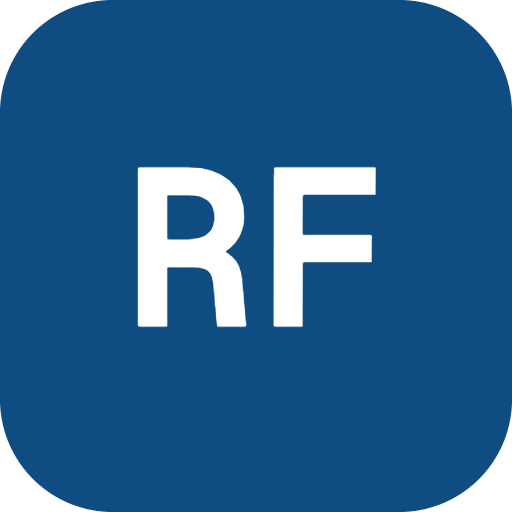
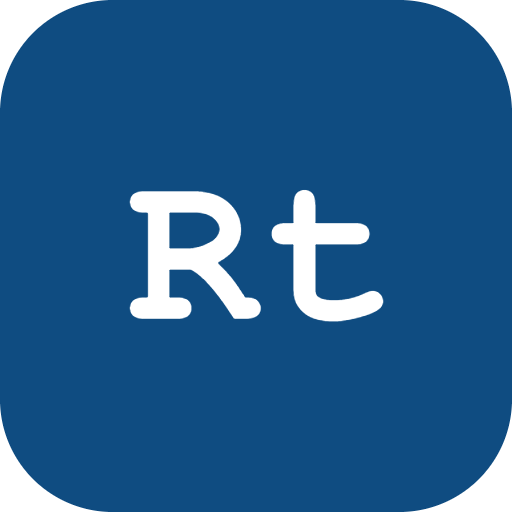
Rebrand app from ReturnFlow to Retura
Vercel couldn't get the short returnflow.vercel.app domain (already
taken by an unrelated project), so renaming to something with a clean
short domain available. Updates all page titles, logo/avatar initials
(RF -> Rt), PWA manifest name and icon, chat assistant's self-
description, package.json name, and README references.

Changed region(s): [[0.25, 0.3125, 0.75, 0.6562]]

diff --git a/index.html b/index.html
@@ -3,14 +3,14 @@
 <head>
 <meta charset="UTF-8"/>
 <meta name="viewport" content="width=device-width, initial-scale=1.0"/>
-<title>ReturnFlow</title>
+<title>Retura</title>
 <link rel="manifest" href="/manifest.webmanifest">
 <link rel="icon" href="/icon-512.png">
 <link rel="apple-touch-icon" href="/icon-512.png">
 <meta name="theme-color" content="#0f4c81">
 <meta name="apple-mobile-web-app-capable" content="yes">
 <meta name="apple-mobile-web-app-status-bar-style" content="black-translucent">
-<meta name="apple-mobile-web-app-title" content="ReturnFlow">
+<meta name="apple-mobile-web-app-title" content="Retura">
 <link rel="preconnect" href="https://fonts.googleapis.com">
 <link href="https://fonts.googleapis.com/css2?family=Poppins:wght@300;400;500;600;700&family=Geist+Mono:wght@400;500&display=swap" rel="stylesheet">
 <style>
@@ -654,8 +654,8 @@ tbody tr:hover td { background: var(--surface-2); }
 <!-- TOP NAV -->
 <nav class="topnav">
   <div class="nav-brand">
-    <div class="nav-logo">RF</div>
-    <span class="nav-title" id="top-firma">ReturnFlow</span>
+    <div class="nav-logo">Rt</div>
+    <span class="nav-title" id="top-firma">Retura</span>
   </div>
   <div class="nav-right">
     <div class="nav-user">
@@ -970,7 +970,7 @@ if('serviceWorker' in navigator){window.addEventListener('load',()=>navigator.se
   const token=localStorage.getItem('bd_token');
   if(!token){window.location.href='/login';return;}
   const navn=localStorage.getItem('bd_navn')||localStorage.getItem('bd_email')||'';
-  const firma=localStorage.getItem('bd_firma')||'ReturnFlow';
+  const firma=localStorage.getItem('bd_firma')||'Retura';
   const rolle=localStorage.getItem('bd_rolle')||'montoer';
   document.addEventListener('DOMContentLoaded',()=>{
     const elNavn=document.getElementById('top-navn');
@@ -1461,7 +1461,7 @@ function indlaesSession(session){
       if(tabs[tabIdx])sw(session.activeTab,tabs[tabIdx]);
     }
     const chatEl=document.getElementById('chat');
-    if(chatEl)chatEl.innerHTML='<div class="msg msg-ai"><div class="avatar">RF</div><div class="bubble">Session genoprettet ✓ — du kan fortsætte præcis hvor du slap.</div></div>';
+    if(chatEl)chatEl.innerHTML='<div class="msg msg-ai"><div class="avatar">Rt</div><div class="bubble">Session genoprettet ✓ — du kan fortsætte præcis hvor du slap.</div></div>';
     if(returData.length)updateBadge();
     applyGlobalFilter();
   }
@@ -1683,7 +1683,7 @@ async function go(){
     indlaesReturTotal(caseNum);
     gemSession();
     logHistorik('analyse', files.length+' følgesedler analyseret', [], alleOrdrer.length, null, fejledeFiler.length);
-    document.getElementById('chat').innerHTML=`<div class="msg msg-ai"><div class="avatar">RF</div><div class="bubble">Jeg har læst <strong>${files.length}</strong> følgesedler fra sag <strong>${caseNum}</strong> — fandt <strong>${alleOrdrer.length}</strong> ordrer. Tryk "Angiv antal retur" for at fortsætte.</div></div>`;
+    document.getElementById('chat').innerHTML=`<div class="msg msg-ai"><div class="avatar">Rt</div><div class="bubble">Jeg har læst <strong>${files.length}</strong> følgesedler fra sag <strong>${caseNum}</strong> — fandt <strong>${alleOrdrer.length}</strong> ordrer. Tryk "Angiv antal retur" for at fortsætte.</div></div>`;
 
     fejledeAktuelle=fejledeFiler;
     visFejlBanner();
@@ -2072,14 +2072,14 @@ function printRetur(){
   });
   const w=window.open('','_blank');
   w.document.write(`<!DOCTYPE html><html lang="da"><head><meta charset="UTF-8"/><title>Returliste ${cn}</title><style>@import url('https://fonts.googleapis.com/css2?family=DM+Sans:wght@300;400;500&family=DM+Mono:wght@400&display=swap');*{box-sizing:border-box;margin:0;padding:0;}body{font-family:'DM Sans',sans-serif;font-size:12px;color:#1a1815;background:#fff;padding:2.5rem;}.header{display:flex;justify-content:space-between;align-items:flex-start;margin-bottom:2rem;padding-bottom:1rem;border-bottom:2px solid #1a1815;}.logo{font-size:18px;font-weight:500;background:#1a1815;color:#fff;padding:6px 14px;border-radius:6px;}.header-right h1{font-size:20px;font-weight:500;margin-bottom:4px;}.header-right p{font-size:11px;color:#6b6560;}.meta{display:flex;gap:2rem;margin-bottom:1.5rem;padding:12px 16px;background:#f5f3ef;border-radius:8px;flex-wrap:wrap;}.meta-label{font-size:10px;text-transform:uppercase;letter-spacing:.06em;color:#9e9890;margin-bottom:2px;}.meta-value{font-size:13px;font-weight:500;}.summary-box{display:flex;gap:1rem;margin-bottom:1.5rem;}.stat{flex:1;border:1px solid #e2ddd8;border-radius:8px;padding:10px 14px;}.stat-l{font-size:10px;text-transform:uppercase;letter-spacing:.05em;color:#9e9890;margin-bottom:2px;}.stat-v{font-size:20px;font-weight:300;font-family:'DM Mono',monospace;}.stat-v.green{color:#1a7a3c;}.section-title{font-size:10px;text-transform:uppercase;letter-spacing:.07em;color:#6b6560;margin-bottom:8px;margin-top:1.5rem;}table{width:100%;border-collapse:collapse;font-size:12px;margin-bottom:1rem;}th{text-align:left;padding:6px 8px;background:#f5f3ef;font-weight:500;font-size:10px;text-transform:uppercase;letter-spacing:.04em;color:#6b6560;border-bottom:1px solid #e2ddd8;}td{padding:6px 8px;border-bottom:1px solid #e2ddd8;}tr.even td{background:#fff;}tr.odd td{background:#faf9f7;}.mono{font-family:'DM Mono',monospace;font-size:11px;color:#6b6560;}.antal{font-weight:500;text-align:right;}.antal.green{color:#1a7a3c;}.divider{border:none;border-top:2px solid #e2ddd8;margin:1.5rem 0;}.ordre-header{font-size:11px;font-weight:500;background:#eef2fd;color:#1a4fd6;padding:6px 10px;border-radius:6px;margin-bottom:6px;margin-top:1rem;font-family:'DM Mono',monospace;}.footer{margin-top:2rem;padding-top:1rem;border-top:1px solid #e2ddd8;font-size:10px;color:#9e9890;display:flex;justify-content:space-between;}.total-row td{font-weight:500;border-top:2px solid #1a1815;background:#f5f3ef!important;}@media print{body{padding:1.5rem;}@page{margin:1.5cm;size:A4;}}</style></head><body>
-  <div class="header"><div class="logo">RF</div><div class="header-right"><h1>Returliste</h1><p>ReturnFlow &nbsp;·&nbsp; ${dato}</p></div></div>
+  <div class="header"><div class="logo">Rt</div><div class="header-right"><h1>Returliste</h1><p>Retura &nbsp;·&nbsp; ${dato}</p></div></div>
   <div class="meta"><div><div class="meta-label">Sagsnummer</div><div class="meta-value">${cn}</div></div><div><div class="meta-label">Ordrer</div><div class="meta-value">${ordreNr||'—'}</div></div><div><div class="meta-label">Dato</div><div class="meta-value">${dato}</div></div></div>
   <div class="summary-box"><div class="stat"><div class="stat-l">Varelinjer retur</div><div class="stat-v">${valgte.length}</div></div><div class="stat"><div class="stat-l">Enheder i alt</div><div class="stat-v green">${Math.round(totalAntal)}</div></div></div>
   <div class="section-title">Samlet returliste</div>
   <table><thead><tr><th>Materiale</th><th>Varenr.</th><th style="text-align:right">Antal retur</th><th>Enhed</th><th>Note</th></tr></thead><tbody>${samletRows}<tr class="total-row"><td colspan="2"><strong>I alt</strong></td><td class="antal"><strong>${Math.round(totalAntal)}</strong></td><td colspan="2"></td></tr></tbody></table>
   <div class="divider"></div>
   <div class="section-title">Fordeling pr. ordre</div>${ordreHtml}
-  <div class="footer"><span>ReturnFlow</span><span>Sag: ${cn} &nbsp;·&nbsp; ${dato}</span></div>
+  <div class="footer"><span>Retura</span><span>Sag: ${cn} &nbsp;·&nbsp; ${dato}</span></div>
   <script>window.onload=function(){window.print();};<\/script></body></html>`);
   w.document.close();
 }
@@ -2124,14 +2124,14 @@ async function doChat(){
   const area=document.getElementById('chat');
   area.innerHTML+=`<div class="msg msg-user"><div class="bubble">${msg}</div></div>`;
   const tid='tid'+Date.now();
-  area.innerHTML+=`<div class="msg msg-ai" id="${tid}"><div class="avatar">RF</div><div class="bubble"><span class="spin"></span></div></div>`;
+  area.innerHTML+=`<div class="msg msg-ai" id="${tid}"><div class="avatar">Rt</div><div class="bubble"><span class="spin"></span></div></div>`;
   area.scrollTop=area.scrollHeight;
   try{
     const r=await fetch('/api/chat',{method:'POST',headers:{'Content-Type':'application/json','Authorization':'Bearer '+apiKey},body:JSON.stringify({message:msg,context:ctx})});
     const d=await r.json();
     const reply=d.reply||d.error||'Prøv igen.';
-    document.getElementById(tid).outerHTML=`<div class="msg msg-ai"><div class="avatar">RF</div><div class="bubble">${reply.replace(/\n/g,'<br>')}</div></div>`;
-  }catch(e){document.getElementById(tid).outerHTML=`<div class="msg msg-ai"><div class="avatar">RF</div><div class="bubble">Fejl: ${e.message}</div></div>`;}
+    document.getElementById(tid).outerHTML=`<div class="msg msg-ai"><div class="avatar">Rt</div><div class="bubble">${reply.replace(/\n/g,'<br>')}</div></div>`;
+  }catch(e){document.getElementById(tid).outerHTML=`<div class="msg msg-ai"><div class="avatar">Rt</div><div class="bubble">Fejl: ${e.message}</div></div>`;}
   area.scrollTop=area.scrollHeight;
 }
 

diff --git a/login.html b/login.html
@@ -3,14 +3,14 @@
 <head>
 <meta charset="UTF-8"/>
 <meta name="viewport" content="width=device-width, initial-scale=1.0"/>
-<title>ReturnFlow — Log ind</title>
+<title>Retura — Log ind</title>
 <link rel="manifest" href="/manifest.webmanifest">
 <link rel="icon" href="/icon-512.png">
 <link rel="apple-touch-icon" href="/icon-512.png">
 <meta name="theme-color" content="#0f4c81">
 <meta name="apple-mobile-web-app-capable" content="yes">
 <meta name="apple-mobile-web-app-status-bar-style" content="black-translucent">
-<meta name="apple-mobile-web-app-title" content="ReturnFlow">
+<meta name="apple-mobile-web-app-title" content="Retura">
 <link href="https://fonts.googleapis.com/css2?family=Instrument+Serif:ital@0;1&family=Geist:wght@300;400;500;600&display=swap" rel="stylesheet">
 <style>
 :root{--ink:#0a0a0a;--ink-2:#525252;--ink-3:#a3a3a3;--paper:#fafaf9;--surface:#fff;--border:#e7e5e4;--accent:#0f4c81;--accent-light:#e8f0f9;--radius:8px;--radius-sm:5px;--radius-lg:12px;}
@@ -40,8 +40,8 @@ button:disabled{opacity:.5;cursor:not-allowed;}
 </head>
 <body>
 <div class="card">
-  <div class="logo">RF</div>
-  <h1>ReturnFlow</h1>
+  <div class="logo">Rt</div>
+  <h1>Retura</h1>
   <div class="sub">Log ind eller opret en konto</div>
 
   <div class="tabs">

diff --git a/api/chat.js b/api/chat.js
@@ -19,7 +19,7 @@ export default async function handler(req, res) {
     const response = await client.messages.create({
       model: "claude-haiku-4-5-20251001",
       max_tokens: 800,
-      system: `Du er ReturnFlow, en retur-assistent til Brødrene Dahl-dokumenter. Sagens data:\n${context}\nSvar kort og præcist på dansk.`,
+      system: `Du er Retura, en retur-assistent til Brødrene Dahl-dokumenter. Sagens data:\n${context}\nSvar kort og præcist på dansk.`,
       messages: [{ role: "user", content: message }],
     });
     const reply = response.content.map((c) => c.text || "").join("");

diff --git a/README.md b/README.md
@@ -1,4 +1,4 @@
-# ReturnFlow — Opsætningsvejledning
+# Retura — Opsætningsvejledning
 
 ## Hvad er dette?
 En SaaS-applikation der hjælper BD-medarbejdere med at håndtere materialeretur.
@@ -6,7 +6,7 @@ Brugere logger ind, uploader SAP-følgesedler og får automatisk en samlet retur
 
 ## Mappestruktur
 ```
-returnflow/
+retura/
 ├── api/
 │   ├── _auth.js          # JWT-hjælper (deles af alle routes)
 │   ├── analyse.js        # Modtager PDF'er → kalder Anthropic → returnerer data
@@ -26,7 +26,7 @@ returnflow/
 ## Trin 1 — GitHub
 
 1. Opret en gratis konto på **github.com**
-2. Klik "New repository" → navngiv det `returnflow` → "Create"
+2. Klik "New repository" → navngiv det `retura` → "Create"
 3. Upload alle filer fra denne mappe til repositoriet
 
 ---
@@ -34,7 +34,7 @@ returnflow/
 ## Trin 2 — Vercel (hosting, gratis)
 
 1. Gå til **vercel.com** og log ind med GitHub
-2. Klik "Add New Project" → vælg dit `returnflow` repository
+2. Klik "Add New Project" → vælg dit `retura` repository
 3. Klik "Deploy" — Vercel bygger appen automatisk
 
 ### Tilføj Vercel KV (database til brugere)
@@ -61,7 +61,7 @@ Gå til dit projekt → "Settings" → "Environment Variables" og tilføj:
 
 1. Opret konto på **stripe.com**
 2. Gå til "Products" → "Add product"
-   - Navn: "ReturnFlow Pro"
+   - Navn: "Retura Pro"
    - Pris: f.eks. 199 kr/måned (recurring)
    - Kopiér **Price ID** (`price_...`) — gem det
 3. Gå til "Developers" → "Webhooks" → "Add endpoint"
